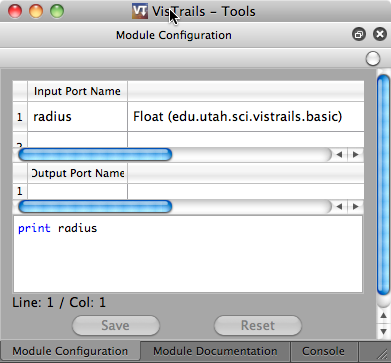
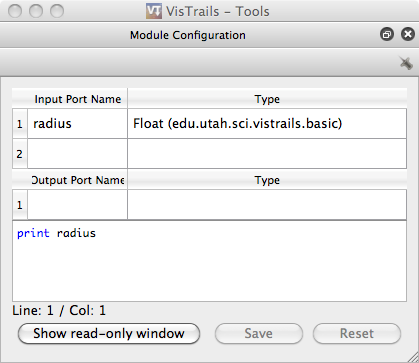
Added documentation for vtkInstance

diff --git a/doc/usersguide/creating.rst b/doc/usersguide/creating.rst
@@ -259,6 +259,9 @@ These modules mostly consist of basic data types in Python and some
 manipulators for them.  In addition, file manipulation modules are
 provided to read files from disk and write files to disk.  
 
+PythonSource
+^^^^^^^^^^^^
+
 .. index:: PythonSource
 
 Because not every Python operation can be represented as a module, the
@@ -269,6 +272,10 @@ module is selected in the canvas, a configuration window is opened.
 This window allows you to specify custom input and output ports
 as well as directly enter Python source to be executed in the
 workflow.
+
+.. topic:: Note
+
+   Sometimes is it useful to view the source code that is contained in the ``PythonSource`` module when working with other modules.  Since the PythonSource configuration window will disappear when you select a new module, a ``Show read-only window`` button can be used to open a read-only window of the ``PythonSource's`` configuration, which will remain open until it is closed.
 
 .. topic:: Try it now!
 
@@ -291,5 +298,14 @@ workflow.
    :align: center
 
    The configuration window for ``PythonSource`` allows multiple input and output ports to be specified along with the Python code that is to be executed.
+
+**Accessing VTK objects in PythonSource** When using a ``PythonSource`` module, users will often rely on their knowledge of VTK to interact with VTK modules.  It is important to realize that a VTK module is really a wrapping of a VTK object.  The real VTK object is called vtkInstance, meaning the VTK object of a module called 'dataset' is called 'dataset.vtkInstance' (see figure :ref:`Accessing VTK Objects<fig-pythonsource-vtkinstance>`).
+
+.. _fig-pythonsource-vtkinstance:
+
+.. figure:: figures/creating/python_source_instance.png
+   :align: center
+
+   Accessing VTK Objects.  The VTK object of a VTK module, 'dataset', is accessed with 'dataset.vtkInstance'. 
 
 .. index:: builder

diff --git a/doc/usersguide/querying.rst b/doc/usersguide/querying.rst
@@ -92,7 +92,7 @@ One major difference between the ``Pipeline`` view and the ``Search`` view is th
 
 .. topic:: Try it now!
 
-   Open the "terminator.vt" example file, and enter ``Search`` mode. Drag the ``vtkActor`` module from the Modules panel onto the Search canvas. ``Execute`` the query, and see which versions of the workflow contain a ``vtkActor`` module. Return to the ``Search`` view, select the ``vtkActor`` icon, then drag the ``RotateZ`` method from the ``Methods`` panel to the ``Set Methods`` panel. In the ``RotateZ`` text field, type ``'> 90'``. When you ``Execute`` the query this time, you will notice that the results are different. This is because we are searching for versions that not only contain a ``vtkActor`` module, but that also use a value greater than 90 in this module's ``RotateZ`` method. Your results should resemble those in Figure :ref:`fig-querying-vtkActor_example`.
+   Open the "terminator.vt" example file, and enter ``Search`` mode. Drag the ``vtkActor`` module from the Modules panel onto the Search canvas. ``Execute`` the query, and see which versions of the workflow contain a ``vtkActor`` module. Select ``Back to Search`` to return to the ``Search`` view, select the ``vtkActor`` module, then select ``RotateZ`` method from the ``Module Information`` tab. In the ``RotateZ`` text field, select ``'> '`` and then enter '90'. When you ``Execute`` the query this time, you will notice that the results are different. This is because we are searching for versions that not only contain a ``vtkActor`` module, but that also use a value greater than 90 in this module's ``RotateZ`` method. Your results should resemble those in Figure :ref:`fig-querying-vtkActor_example`.
 
 .. _fig-querying-vtkActor_example:
 
